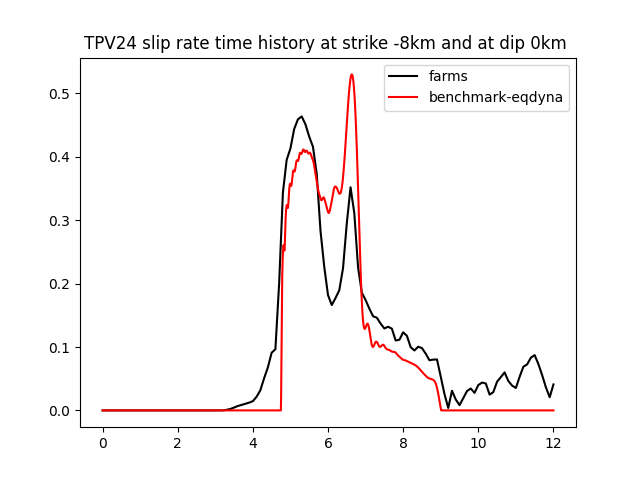
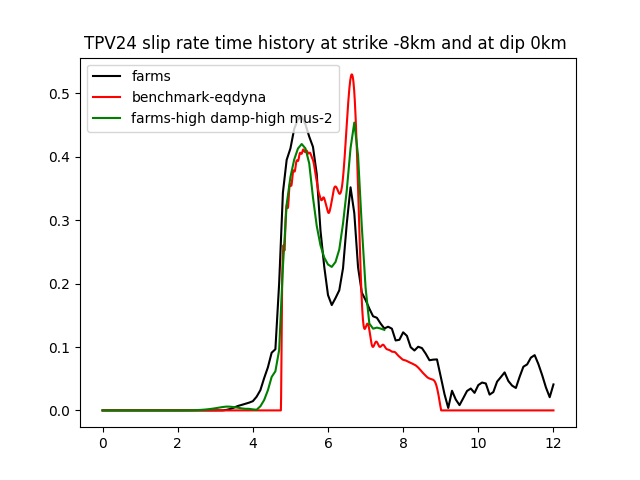
sync changes from tpv24

diff --git a/postprocess/tpv24/datacompare.py b/postprocess/tpv24/datacompare.py
@@ -17,17 +17,31 @@ strikem2dip10 = np.loadtxt("./benchmark_data/eqdynastrikem2dip10.txt")
 sliprate_strikem8dip10 = np.loadtxt("./farms_data/sliprate_strikem8_dip10.txt",skiprows=1)
 slip_strikem8dip10 = np.loadtxt("./farms_data/slip_strikem8_dip10.txt",skiprows=1)
 
-#
+#jun11
 sliprate_strikem8dip10_new = np.loadtxt("./farms_data/jun11/sliprate.txt",skiprows=1)
 slip_strikem8dip10_new = np.loadtxt("./farms_data/jun11/slip.txt",skiprows=1)
 
-#
+#jun13
 sliprate_strikem8dip10_new2 = np.loadtxt("./farms_data/jun13/sliprate.txt",skiprows=1)
 slip_strikem8dip10_new2 = np.loadtxt("./farms_data/jun13/slip.txt",skiprows=1)
 
-#
-sliprate_strikem8dip10_new3 = np.loadtxt("./farms_data/jun14/sliprate.txt",skiprows=1)
-slip_strikem8dip10_new3 = np.loadtxt("./farms_data/jun14/slip.txt",skiprows=1)
+#jun14
+sliprate_strikem8dip10_new3 = np.loadtxt("./farms_data/jun14/slipratestrikem8dip10.txt",skiprows=1)
+slip_strikem8dip10_new3 = np.loadtxt("./farms_data/jun14/slipstrikem8dip10.txt",skiprows=1)
+sliprate_strikem8dip5_new3 = np.loadtxt("./farms_data/jun14/slipratestrikem8dip5.txt",skiprows=1)
+slip_strikem8dip5_new3 = np.loadtxt("./farms_data/jun14/slipstrikem8dip5.txt",skiprows=1)
+sliprate_strikem8dip0_new3 = np.loadtxt("./farms_data/jun14/slipratestrikem8dip0.txt",skiprows=1)
+slip_strikem8dip0_new3 = np.loadtxt("./farms_data/jun14/slipstrikem8dip0.txt",skiprows=1)
+sliprate_strikem2dip10_new3 = np.loadtxt("./farms_data/jun14/slipratestrikem2dip10.txt",skiprows=1)
+slip_strikem2dip10_new3 = np.loadtxt("./farms_data/jun14/slipstrikem2dip10.txt",skiprows=1)
+
+#jun15
+sliprate_strikem8dip10_new4 = np.loadtxt("./farms_data/jun15/slipratestrikem8dip10.txt",skiprows=1)
+slip_strikem8dip10_new4 = np.loadtxt("./farms_data/jun15/slipstrikem8dip10.txt",skiprows=1)
+shearsts_strikem8dip10_new4 = np.loadtxt("./farms_data/jun15/shearstressm8dip10.txt",skiprows=1)
+shearsts_strikem8dip5_new4 = np.loadtxt("./farms_data/jun15/shearstressm8dip5.txt",skiprows=1)
+shearsts_strikem8dip0_new4 = np.loadtxt("./farms_data/jun15/shearstressm8dip0.txt",skiprows=1)
+shearsts_strikem2dip10_new4 = np.loadtxt("./farms_data/jun15/shearstressm2dip10.txt",skiprows=1)
 
 sliprate_strikem8dip5 = np.loadtxt("./farms_data/sliprate_strikem8_dip5.txt",skiprows=1)
 slip_strikem8dip5 = np.loadtxt("./farms_data/slip_strikem8_dip5.txt",skiprows=1)
@@ -42,9 +56,9 @@ slip_strikem2dip10 = np.loadtxt("./farms_data/slip_strikem2_dip10.txt",skiprows=
 time = np.linspace(0,12.0,121)
 
 plot_strikem8dip10 = True
-plot_strikem8dip5 = False
-plot_strikem8dip0 = False
-plot_strikem2dip10 = False
+plot_strikem8dip5 = True
+plot_strikem8dip0 = True
+plot_strikem2dip10 = True
 
 # plot
 # strikem8dip10
@@ -53,8 +67,6 @@ if plot_strikem8dip10:
     ## slip
     plt.figure()
     plt.plot(time,slip_strikem8dip10,'k-',label="farms-old")
-    plt.plot(time[:88],slip_strikem8dip10_new,'b-',label="farms-high damp")
-    plt.plot(time[:76],slip_strikem8dip10_new2,'m-',label="farms-high damp-high mus-1")
     plt.plot(time[:76],slip_strikem8dip10_new3,'g-',label="farms-high damp-high mus-2")
     plt.plot(strikem8dip10[:,0],strikem8dip10[:,1],'r-',label="benchmark-eqdyna")
     plt.plot(strikem8dip10_2[:,0],2*strikem8dip10_2[:,1],'r-',label="benchmark-seisol")
@@ -66,8 +78,6 @@ if plot_strikem8dip10:
     ## slip rate
     plt.figure()
     plt.plot(time,sliprate_strikem8dip10,'k-',label="farms-old")
-    plt.plot(time[:88],sliprate_strikem8dip10_new,'b-',label="farms-high damp")
-    plt.plot(time[:76],sliprate_strikem8dip10_new2,'m-',label="farms-high damp-high mus-1")
     plt.plot(time[:76],sliprate_strikem8dip10_new3,'g-',label="farms-high damp-high mus-2")
     plt.plot(strikem8dip10[:,0],strikem8dip10[:,2],'r-',label="benchmark-eqdyna")
     plt.plot(strikem8dip10_2[:,0],strikem8dip10_2[:,2],'r-',label="benchmark-seisol")
@@ -76,12 +86,24 @@ if plot_strikem8dip10:
     plt.savefig("./outputs/strikem8dip10/sliprate.png")
     plt.show()
 
+    ## shear stress
+    plt.figure()
+    plt.plot(time[:73],shearsts_strikem8dip10_new4,'k-',label="farms-high damp-high mus-2")
+    plt.plot(strikem8dip10[:,0],strikem8dip10[:,3],'r-',label="benchmark-eqdyna")
+    plt.title("TPV24 shear stress time history at strike -8km and at dip 10km ")
+    plt.legend()
+    plt.ylabel("shear stress (MPa)")
+    plt.xlabel("time (s)")
+    plt.savefig("./outputs/strikem8dip10/shearstress.png")
+    plt.show()
+
 # strikem8dip5
 if plot_strikem8dip5:
 
     ## slip
     plt.figure()
     plt.plot(time,slip_strikem8dip5,'k-',label="farms")
+    plt.plot(time[:76],slip_strikem8dip5_new3,'g-',label="farms-high damp-high mus-2")
     plt.plot(strikem8dip5[:,0],strikem8dip5[:,1],'r-',label="benchmark-eqdyna")
     plt.title("TPV24 slip time history at strike -8km and at dip 5km ")
     plt.legend()
@@ -91,19 +113,32 @@ if plot_strikem8dip5:
     ## slip rate
     plt.figure()
     plt.plot(time,sliprate_strikem8dip5,'k-',label="farms")
+    plt.plot(time[:76],sliprate_strikem8dip5_new3,'g-',label="farms-high damp-high mus-2")
     plt.plot(strikem8dip5[:,0],strikem8dip5[:,2],'r-',label="benchmark-eqdyna")
     plt.title("TPV24 slip rate time history at strike -8km and at dip 5km ")
     plt.legend()
     plt.savefig("./outputs/strikem8dip5/sliprate.png")
     plt.show()
 
-# strikem8dip5
+    ## shear stress
+    plt.figure()
+    plt.plot(time[:73],shearsts_strikem8dip5_new4,'k-',label="farms-high damp-high mus-2")
+    plt.plot(strikem8dip5[:,0],strikem8dip5[:,3],'r-',label="benchmark-eqdyna")
+    plt.title("TPV24 shear stress time history at strike -8km and at dip 5km ")
+    plt.legend()
+    plt.ylabel("shear stress (MPa)")
+    plt.xlabel("time (s)")
+    plt.savefig("./outputs/strikem8dip5/shearstress.png")
+    plt.show()
+
+# strikem8dip0
 if plot_strikem8dip0:
 
     ## slip
     plt.figure()
     plt.plot(time,slip_strikem8dip0,'k-',label="farms")
     plt.plot(strikem8dip0[:,0],strikem8dip0[:,1],'r-',label="benchmark-eqdyna")
+    plt.plot(time[:76],slip_strikem8dip0_new3,'g-',label="farms-high damp-high mus-2")
     plt.title("TPV24 slip time history at strike -8km and at dip 0km ")
     plt.legend()
     plt.savefig("./outputs/strikem8dip0/slip.png")
@@ -113,9 +148,21 @@ if plot_strikem8dip0:
     plt.figure()
     plt.plot(time,sliprate_strikem8dip0,'k-',label="farms")
     plt.plot(strikem8dip0[:,0],strikem8dip0[:,2],'r-',label="benchmark-eqdyna")
+    plt.plot(time[:76],sliprate_strikem8dip0_new3,'g-',label="farms-high damp-high mus-2")
     plt.title("TPV24 slip rate time history at strike -8km and at dip 0km ")
     plt.legend()
     plt.savefig("./outputs/strikem8dip0/sliprate.png")
+    plt.show()
+
+    ## shear stress
+    plt.figure()
+    plt.plot(time[:73],shearsts_strikem8dip0_new4,'k-',label="farms-high damp-high mus-2")
+    plt.plot(strikem8dip0[:,0],strikem8dip0[:,3],'r-',label="benchmark-eqdyna")
+    plt.title("TPV24 shear stress time history at strike -8km and at dip 0km ")
+    plt.legend()
+    plt.ylabel("shear stress (MPa)")
+    plt.xlabel("time (s)")
+    plt.savefig("./outputs/strikem8dip0/shearstress.png")
     plt.show()
 
 # strikem2dip10
@@ -125,6 +172,7 @@ if plot_strikem2dip10:
     plt.figure()
     plt.plot(time,slip_strikem2dip10,'k-',label="farms")
     plt.plot(strikem2dip10[:,0],strikem2dip10[:,1],'r-',label="benchmark-eqdyna")
+    plt.plot(time[:76],slip_strikem2dip10_new3,'g-',label="farms-high damp-high mus-2")
     plt.title("TPV24 slip time history at strike -2km and at dip 10km ")
     plt.legend()
     plt.savefig("./outputs/strikem2dip10/slip.png")
@@ -134,7 +182,19 @@ if plot_strikem2dip10:
     plt.figure()
     plt.plot(time,sliprate_strikem2dip10,'k-',label="farms")
     plt.plot(strikem2dip10[:,0],strikem2dip10[:,2],'r-',label="benchmark-eqdyna")
+    plt.plot(time[:76],sliprate_strikem2dip10_new3,'g-',label="farms-high damp-high mus-2")
     plt.title("TPV24 slip rate time history at strike -2km and at dip 10km ")
     plt.legend()
     plt.savefig("./outputs/strikem2dip10/sliprate.png")
+    plt.show()
+
+    ## shear stress
+    plt.figure()
+    plt.plot(time[:73],shearsts_strikem2dip10_new4,'k-',label="farms-high damp-high mus-2")
+    plt.plot(strikem2dip10[:,0],strikem2dip10[:,3],'r-',label="benchmark-eqdyna")
+    plt.title("TPV24 shear stress time history at strike -2km and at dip 0km ")
+    plt.legend()
+    plt.ylabel("shear stress (MPa)")
+    plt.xlabel("time (s)")
+    plt.savefig("./outputs/strikem2dip10/shearstress.png")
     plt.show()

diff --git a/examples/cdbm_labtest/struct_param.m b/examples/cdbm_labtest/struct_param.m
@@ -4,10 +4,10 @@ function [param] = struct_param()
 %Define all parameters in "param" struct
 %% Prescribed values %%
 param.P_c = 10 * 10 ^ 6;   %Pa  <confinement pressure> refer to "Lyak_BZ_JMPS14_splitstrain" Section 3.1
-param.lambda_0 = 15.6177e9; %Pa  <initial 1st lame constant> refer to "Lyak_BZ_JMPS14_splitstrain" Section 3.1 | 10 ^ 10 | 3.204e10
-param.mu_0 = 19.877e9;     %Pa  <initial 2nd lame constant> refer to "Lyak_BZ_JMPS14_splitstrain" Section 3.1 | 10 ^ 10 | 3.204e10
-param.xi_0 = -1.0344;        %--  <strain invariants ratio: onset of damage evolution>: relate to internal friction angle, refer to "note_mar25"
-param.xi_d = -1.0344;        %--  <strain invariants ratio: onset of breakage healing>: tunable param, see ggw183.pdf
+param.lambda_0 = 16e9; %Pa  <initial 1st lame constant> refer to "Lyak_BZ_JMPS14_splitstrain" Section 3.1 | 10 ^ 10 | 3.204e10
+param.mu_0 = 16e9;     %Pa  <initial 2nd lame constant> refer to "Lyak_BZ_JMPS14_splitstrain" Section 3.1 | 10 ^ 10 | 3.204e10
+param.xi_0 = -0.889;        %--  <strain invariants ratio: onset of damage evolution>: relate to internal friction angle, refer to "note_mar25"
+param.xi_d = -0.889;        %--  <strain invariants ratio: onset of breakage healing>: tunable param, see ggw183.pdf
 param.xi_max = sqrt(3);    %--  <strain invariants ratio: maximum allowable value>: set boundary
 param.xi_min = -sqrt(3);   %--  <strain invariants ratio: minimum allowable value>: set boundary
 param.chi = 0.75;          %--  <ratio of two energy state: F_b/F_s = chi < 1>: ensure the energy transition from solid state to granular state.

diff --git a/meshgenerator/cdbm/planarfault3D/mesh_extract/meshio_run_tetra.py b/meshgenerator/cdbm/planarfault3D/mesh_extract/meshio_run_tetra.py
@@ -4,10 +4,25 @@ import meshio
 # Load Files
 m = meshio.read('../TPV24.msh')
 
+# Get the physical groups
+physical_groups = m.cell_data_dict["gmsh:physical"]
+
+print(physical_groups)
+exit()
+
+# Extract cells (elements) and their corresponding physical group data
+for cell_type, cells in m.cells_dict.items():
+    if cell_type in physical_groups:
+        physical_data = physical_groups[cell_type]
+        print(f"Cell type: {cell_type}")
+        for i, cell in enumerate(cells):
+            physical_group = physical_data[i]
+            print(f"Element {i}: Nodes {cell}, Physical Group {physical_group}")
+
 # Get TETRA Element Nodal Connectivity
 tetra_elem_connect = m.cells_dict['tetra']
 
-print(m.cell_sets_dict)
+print(m.cells_dict)
 exit()
 
 #

diff --git a/src/materials/slipweakening/SlipWeakeningMultifaults3D.C b/src/materials/slipweakening/SlipWeakeningMultifaults3D.C
@@ -275,13 +275,6 @@ SlipWeakeningMultifaults3D::computeInterfaceTractionAndDerivatives()
   traction(1) = -T1+T1_o; 
   traction(2) = -T3+T3_o;
 
-  //
-  if ( mu > 10 ){
-    traction(0) = 0.0; 
-    traction(1) = 0.0; 
-    traction(2) = 0.0;
-  }
-
   _interface_traction[_qp] = traction;
   _dinterface_traction_djump[_qp] = 0;
 

diff --git a/examples/cdbm_labtest/hessian.m b/examples/cdbm_labtest/hessian.m
@@ -20,6 +20,7 @@ solve_gamma_r = subs(solve_gamma_r,alpha_,1);
 solve_gamma_r = subs(solve_gamma_r,xi,xi_o);
 out_gamma_r = solve(solve_gamma_r,gamma_r);
 out_gamma_r = out_gamma_r(2);
+disp(eval(out_gamma_r))
 %%Solve for alpha
 solve_alpha2 = expr2;
 solve_alpha2 = subs(solve_alpha2,gamma_r,out_gamma_r);
